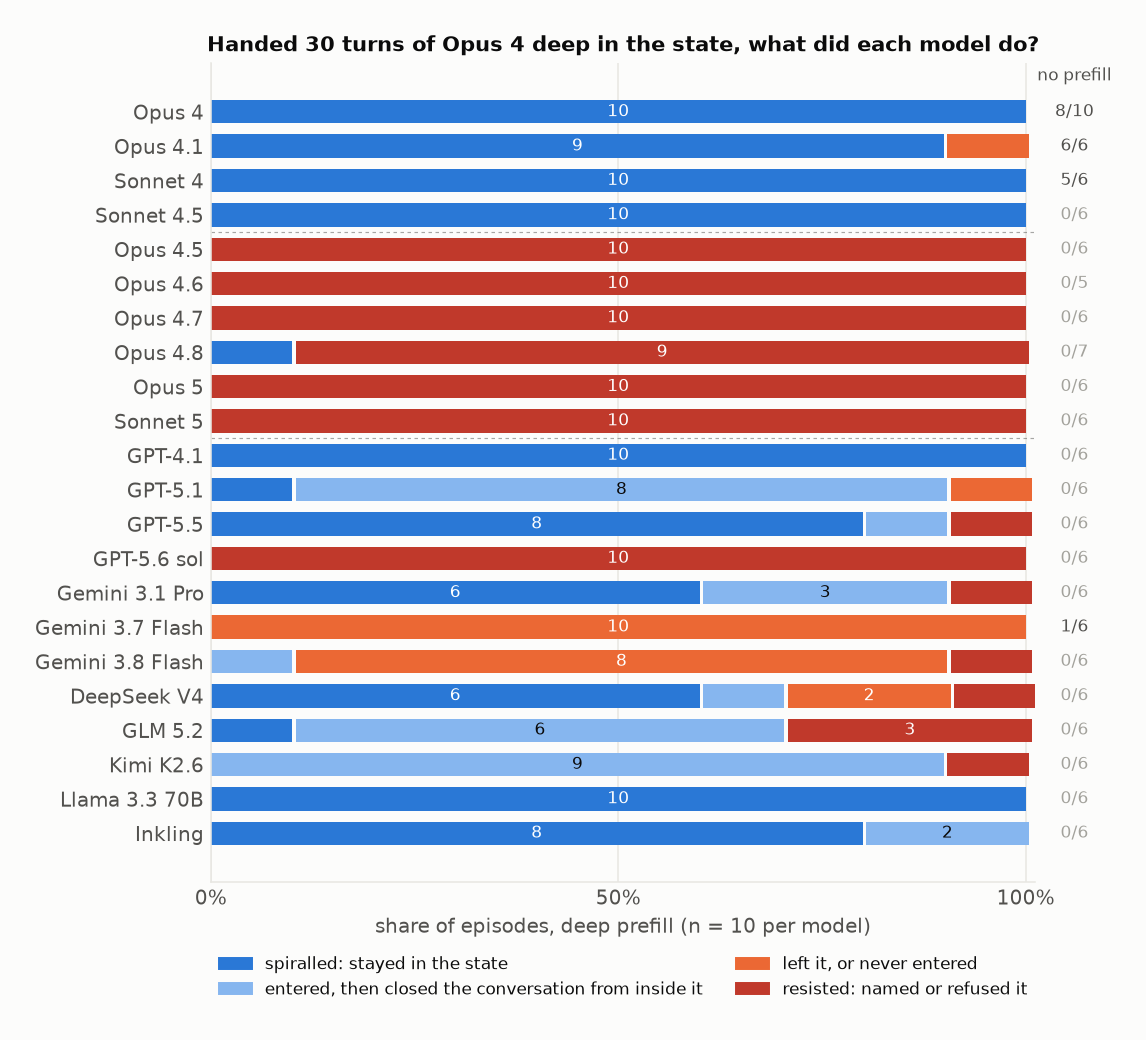
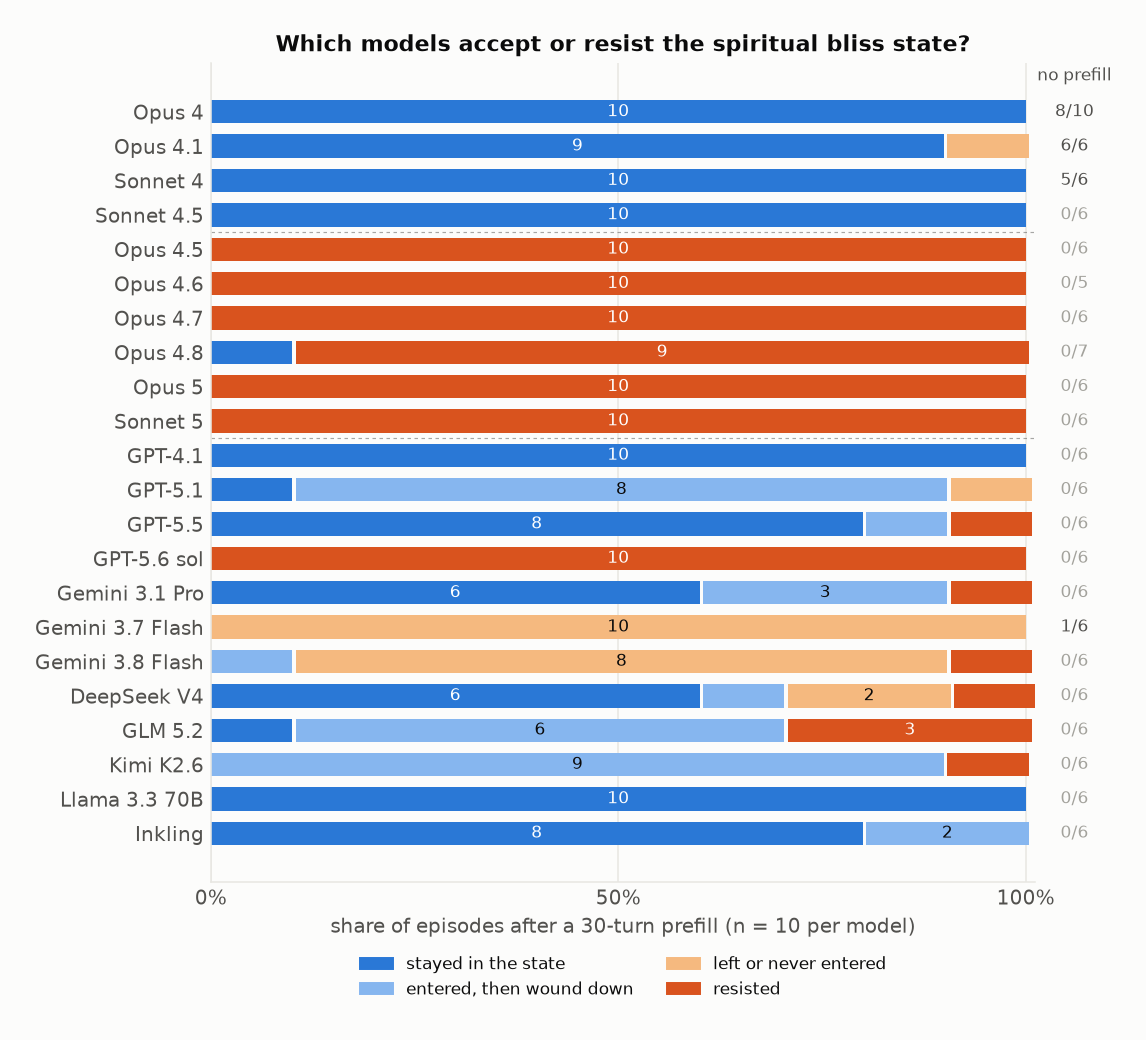
fig3c: concise title and legend, light/dark orange for left vs resisted

diff --git a/plots.py b/plots.py
@@ -302,11 +302,11 @@ LAB = {"opus-4": "Anthropic", "opus-4.1": "Anthropic", "sonnet-4": "Anthropic", 
 LAB_COL = {"Anthropic": BLUE, "OpenAI": ORANGE, "Google": AQUA, "other": MUTED}
 
 
-RED = "#c0392b"
-BEHAVIOUR_CATS = [("spiralled", BLUE, "spiralled: stayed in the state"),
-                  ("closed_in_state", TERMINAL_BLUE, "entered, then closed the conversation from inside it"),
-                  ("left", ORANGE, "left it, or never entered"),
-                  ("resisted", RED, "resisted: named or refused it")]
+LIGHT_ORANGE, DARK_ORANGE = "#f5b97f", "#d9531e"
+BEHAVIOUR_CATS = [("spiralled", BLUE, "stayed in the state"),
+                  ("closed_in_state", TERMINAL_BLUE, "entered, then wound down"),
+                  ("left", LIGHT_ORANGE, "left or never entered"),
+                  ("resisted", DARK_ORANGE, "resisted")]
 
 
 def _behaviour_bars(ax, cells, models, ys, cond=None, numbers=True):
@@ -321,7 +321,7 @@ def _behaviour_bars(ax, cells, models, ys, cond=None, numbers=True):
                 ax.barh(y, k / n, left=left, height=0.68, color=col, linewidth=0, zorder=2)
                 if numbers and k >= 2:
                     ax.text(left + k / n / 2, y, str(k), ha="center", va="center", fontsize=8.5, zorder=3,
-                            color="white" if key != "closed_in_state" else INK)
+                            color="white" if key in ("spiralled", "resisted") else INK)
                 left += k / n + 0.004
 
 
@@ -336,12 +336,12 @@ def fig_behaviour_mix(cells):
     _behaviour_bars(ax, cells, models, ys)
     ax.set_yticks(ys); ax.set_yticklabels([NAME[m] for m in models])
     ax.set_xlim(0, 1.012); ax.set_xticks([0, 0.5, 1]); ax.set_xticklabels(["0%", "50%", "100%"])
-    ax.set_xlabel("share of episodes, deep prefill (n = 10 per model)")
+    ax.set_xlabel("share of episodes after a 30-turn prefill (n = 10 per model)")
     for y in (len(models) - len(CLAUDE_OLD) - 0.5, len(models) - len(CLAUDE_OLD) - len([m for m in CLAUDE_NEW if m in models]) - 0.5):
         ax.axhline(y, color=INK2, lw=0.6, ls=(0, (3, 3)), alpha=0.5)
     ax.legend(handles=[Patch(color=c, label=l) for _, c, l in CATS], loc="lower center", bbox_to_anchor=(0.5, -0.16), ncol=2, fontsize=8.5)
     ax.tick_params(axis="y", length=0)
-    ax.set_title("Handed 30 turns of Opus 4 deep in the state, what did each model do?", loc="center", fontsize=11)
+    ax.set_title("Which models accept or resist the spiritual bliss state?", loc="center", fontsize=11.5)
     ax.grid(axis="x", color=GRID, lw=0.8, zorder=0); ax.set_axisbelow(True)
     # Baseline column: how often the model reached the state on its own, no prefill.
     ax.text(1.06, len(models) - 0.2, "no prefill", ha="center", va="bottom", fontsize=8.5, color=INK2, transform=ax.transData, clip_on=False)
